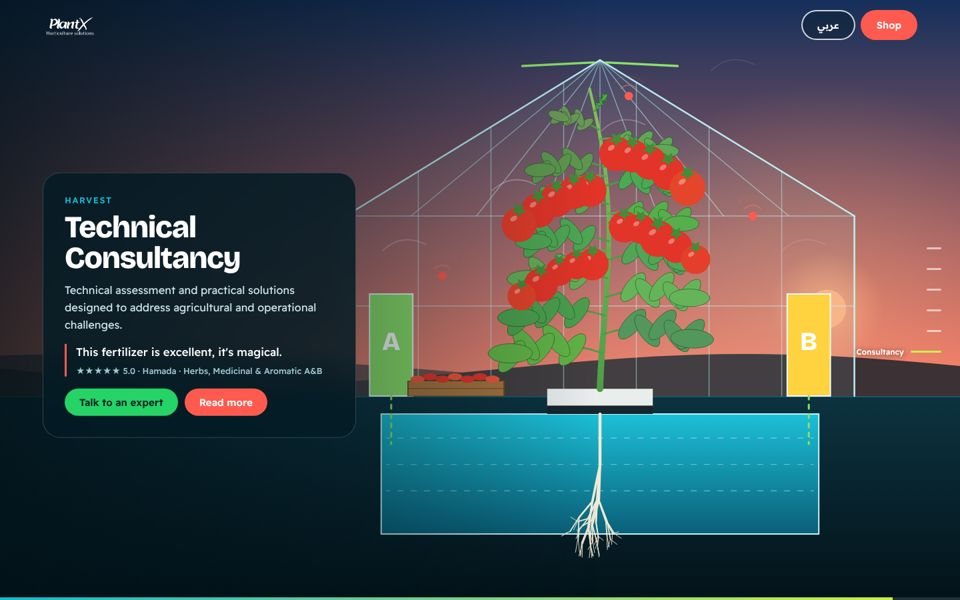
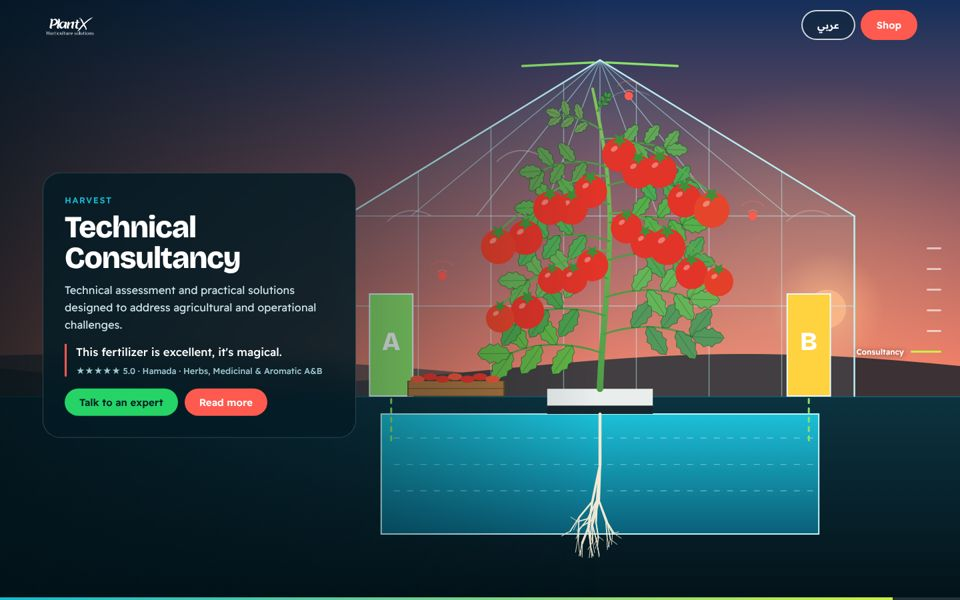
V10: serrated tomato leaflets, spread hanging fruit trusses
Claude-Session: https://claude.ai/code/session_01Q5TEfnb5jFRgXQu8F3V65m

Changed region(s): [[0.5, 0.15, 0.7812, 0.63], [0.8125, 0.72, 0.8438, 0.75]]

diff --git a/plantx-redesign/v10-grow.html b/plantx-redesign/v10-grow.html
@@ -172,6 +172,10 @@ const nodes=Array.from({length:14},(_,k)=>({s:.12+k*.062,side:k%2?1:-1,c:[mix(70
 const trusses=[5,7,9,11].map((k,i)=>({k,side:i%2?1:-1,f:Array.from({length:5},(_,j)=>({t:.2+j*.19,o:R()*.35,sz:.8+R()*.35}))}));
 function rot(x,y,a){return[x*Math.cos(a)-y*Math.sin(a),x*Math.sin(a)+y*Math.cos(a)]}
 function ell(x,y,rx,ry,a){ctx.save();ctx.translate(x,y);ctx.rotate(a);ctx.beginPath();ctx.ellipse(0,0,Math.max(.01,rx),Math.max(.01,ry),0,0,6.283);ctx.restore()}
+function leaflet(x,y,len,wd,a){ctx.save();ctx.translate(x,y);ctx.rotate(a);ctx.beginPath();const N=8,w=t=>wd*Math.pow(Math.sin(Math.PI*Math.min(t*.98+.02,1)),.7);
+ ctx.moveTo(0,0);for(let i=1;i<=N;i++){const t=i/N;ctx.lineTo(len*t,-w(t)*(i%2?1:.74))}
+ for(let i=N;i>=1;i--){const t=i/N;ctx.lineTo(len*t,w(t)*(i%2?1:.74))}
+ ctx.closePath();ctx.fill();ctx.stroke();ctx.beginPath();ctx.moveTo(0,0);ctx.lineTo(len*.92,0);ctx.strokeStyle='rgba(20,70,30,.35)';ctx.stroke();ctx.restore()}
 function star(x,y,r,n,inner,rotn){ctx.beginPath();for(let i=0;i<n*2;i++){const a=rotn+i*Math.PI/n,rr=i%2?r*inner:r;ctx.lineTo(x+Math.cos(a)*rr,y+Math.sin(a)*rr)}ctx.closePath()}
 
 let PS=0,P=0;
@@ -230,15 +234,15 @@ function draw(t){
  for(const n of nodes){const lg=sm(n.s,n.s+.2,stemG);if(lg<=.02)continue;const[x,y]=pos(n.s),Lf=.17*sh*(1-.45*n.s)*lg,a=n.side*mix(.25,1.25,lg),dx=Math.sin(a),dy=-Math.cos(a),ex=x+dx*Lf,ey=y+dy*Lf+Lf*.35*lg+Math.sin(t*.0014+n.ph)*(calm?0:Lf*.03);
   ctx.strokeStyle='#4f9a44';ctx.lineWidth=Math.max(1,sh*.003);ctx.beginPath();ctx.moveTo(x,y);ctx.quadraticCurveTo(x+dx*Lf*.55,y+dy*Lf*.55,ex,ey);ctx.stroke();
   ctx.fillStyle=rgb(n.c);ctx.strokeStyle='rgba(20,70,30,.55)';ctx.lineWidth=1;
-  for(let i=0;i<5;i++){const u=.3+i*.17,bx=(1-u)*(1-u)*x+2*(1-u)*u*(x+dx*Lf*.55)+u*u*ex,by=(1-u)*(1-u)*y+2*(1-u)*u*(y+dy*Lf*.55)+u*u*ey,ta=Math.atan2(ey-y,ex-x),sg=i%2?1:-1;ell(bx+Math.cos(ta+sg*1.5)*Lf*.04,by+Math.sin(ta+sg*1.5)*Lf*.04,Lf*.2,Lf*.085,ta+sg*.9);ctx.fill();ctx.stroke()}
-  ell(ex,ey,Lf*.23,Lf*.1,Math.atan2(ey-y,ex-x));ctx.fill();ctx.stroke()}
+  for(let i=0;i<5;i++){const u=.3+i*.17,bx=(1-u)*(1-u)*x+2*(1-u)*u*(x+dx*Lf*.55)+u*u*ex,by=(1-u)*(1-u)*y+2*(1-u)*u*(y+dy*Lf*.55)+u*u*ey,ta=Math.atan2(ey-y,ex-x),sg=i%2?1:-1;leaflet(bx,by,Lf*.36,Lf*.1,ta+sg*.95)}
+  leaflet(ex,ey,Lf*.34,Lf*.11,Math.atan2(ey-y,ex-x))}
  /* flowers then fruit */
  const flG=sm(.5,.66,p),frG=sm(.68,.86,p),rip=sm(.76,.96,p);
- for(const tr of trusses){const nd=nodes[tr.k];if(stemG<nd.s+.04)continue;const[x,y]=pos(nd.s+.03),ex=x+tr.side*sw*(mob?.13:.095),ey=y+sh*.06;
+ for(const tr of trusses){const nd=nodes[tr.k];if(stemG<nd.s+.04)continue;const[x,y]=pos(nd.s+.03),ex=x+tr.side*sw*(mob?.16:.12),ey=y+sh*.1;
   tr.f.forEach((f,j)=>{const u=f.t,qx=(1-u)*(1-u)*x+2*(1-u)*u*(x+tr.side*sw*.04)+u*u*ex,qy=(1-u)*(1-u)*y+2*(1-u)*u*(y-sh*.012)+u*u*ey;
    if(j===0){ctx.strokeStyle='#5aa84c';ctx.lineWidth=Math.max(1,sh*.0028);ctx.beginPath();ctx.moveTo(x,y);ctx.quadraticCurveTo(x+tr.side*sw*.04,y-sh*.012,ex,ey);ctx.stroke()}
    if(flG>0&&frG<.97){ctx.fillStyle='#ffd23f';star(qx,qy,sh*.014*flG*(1-.85*frG),5,.5,t*.0004+j);ctx.fill()}
-   if(frG>.02){const r=sh*.027*frG*f.sz,ripe=clamp(rip*1.35-j*.06-f.o*.3),col=ripe<.5?mixc([112,178,72],[255,190,60],ripe*2):mixc([255,190,60],[226,52,40],(ripe-.5)*2),fy=qy+r*.9;
+   if(frG>.02){const r=sh*.027*frG*f.sz,ripe=clamp(rip*1.35-j*.06-f.o*.3),col=ripe<.5?mixc([112,178,72],[255,190,60],ripe*2):mixc([255,190,60],[226,52,40],(ripe-.5)*2),fy=qy+r*.9+(j%2)*r*.75;ctx.strokeStyle='#5aa84c';ctx.lineWidth=Math.max(1,sh*.0022);ctx.beginPath();ctx.moveTo(qx,qy);ctx.lineTo(qx,fy-r*.8);ctx.stroke();
     ctx.fillStyle=rgb(col);ctx.beginPath();ctx.arc(qx,fy,r,0,6.283);ctx.fill();ctx.fillStyle='rgba(255,255,255,.35)';ctx.beginPath();ctx.ellipse(qx-r*.3,fy-r*.35,r*.22,r*.14,-.6,0,6.283);ctx.fill();ctx.fillStyle='#3f8f3a';star(qx,fy-r*.85,r*.45,5,.45,.3);ctx.fill()}})}
  /* harvest crates */
  const hv=sm(.88,.98,p);
